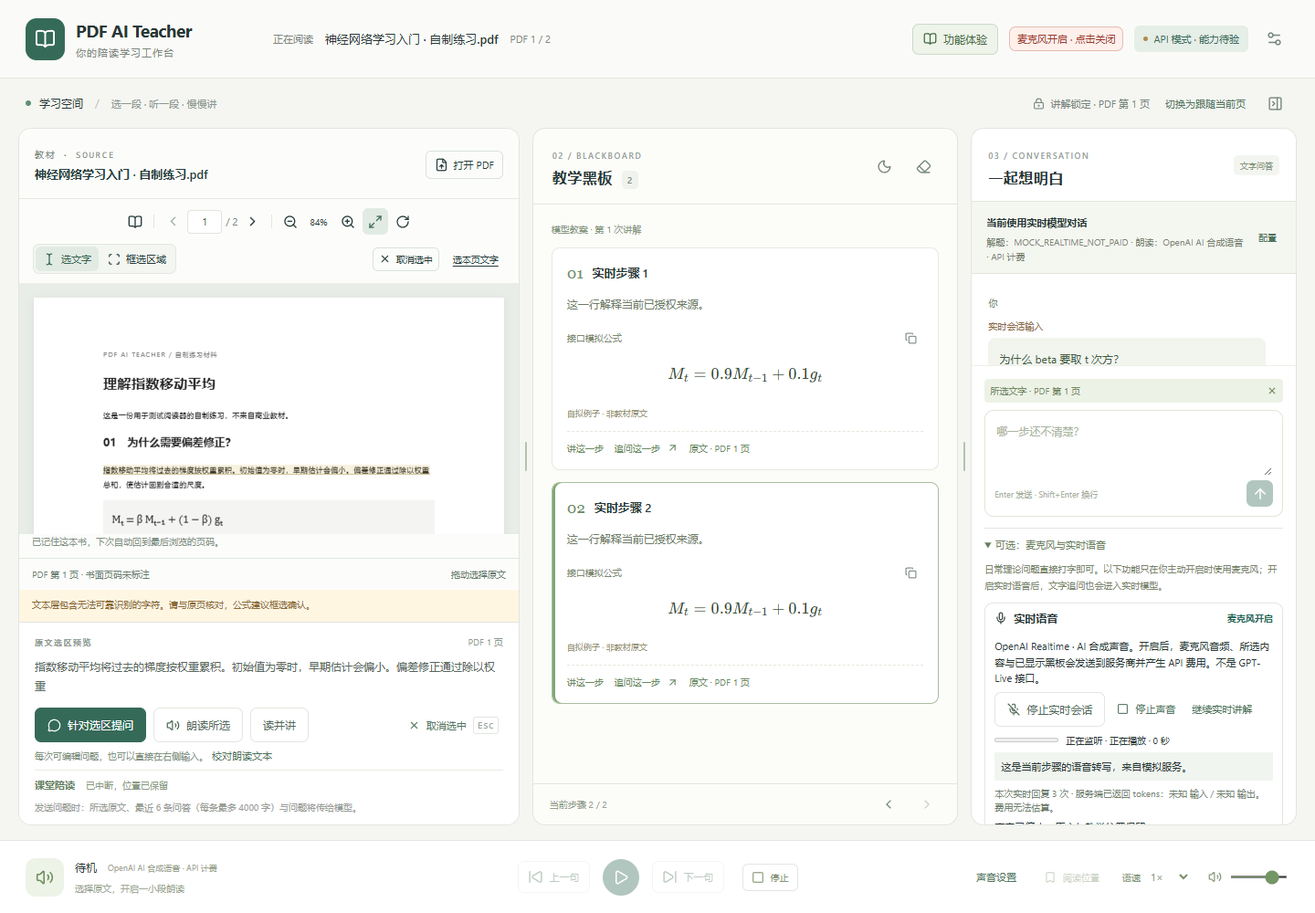
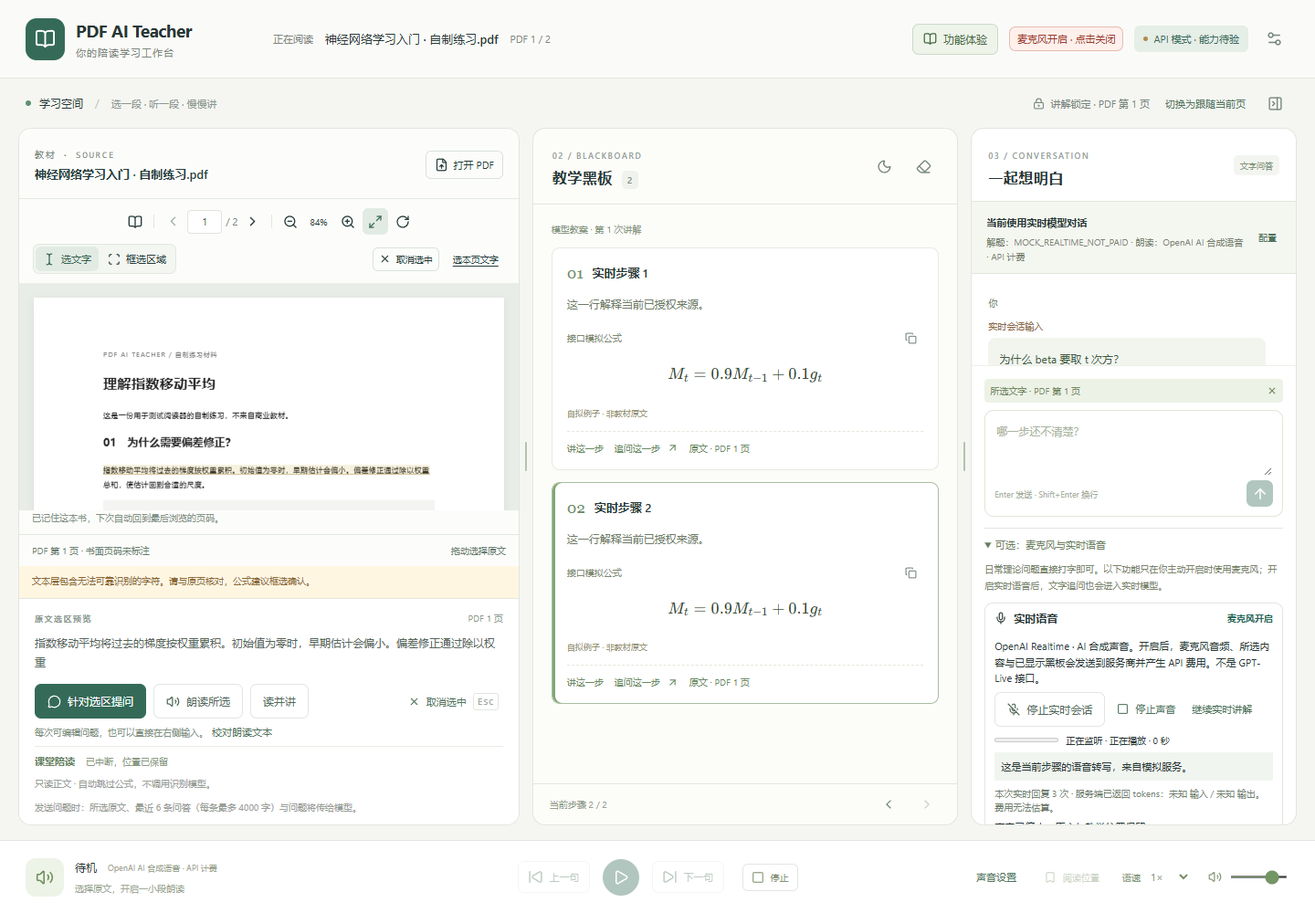
Default to prose reading and verify continuous desktop playback

Changed region(s): [[0.0, 0.558, 0.4062, 0.868]]

diff --git a/apps/web/src/App.tsx b/apps/web/src/App.tsx
@@ -1,4 +1,4 @@
-import { useCallback, useEffect, useRef, useState } from 'react';
+import { useCallback, useEffect, useMemo, useRef, useState } from 'react';
 import { flushSync } from 'react-dom';
 import { BookOpen, Settings2, LockKeyhole, ArrowUp, Play, Pause, Square, SkipBack, SkipForward, Volume2, X, Bookmark, PanelRightClose, MessageCircle, RefreshCw, NotebookPen } from 'lucide-react';
 import type { AppConfig, DocumentRecord, PdfTarget, TeachingStep, UsageRecord, Envelope } from '../../../packages/shared/protocol';
@@ -14,7 +14,7 @@ import SelectionQuestionDialog from './features/chat/SelectionQuestionDialog';
 import AnswerSpeechControls from './features/chat/AnswerSpeechControls';
 import Blackboard, { type BoardEntry } from './features/blackboard/Blackboard';
 import QwenSpeechStatus from './features/voice/QwenSpeechStatus';
-import { AudioCoordinator, requiresFormulaConfirmation, type AudioState } from './features/voice/AudioCoordinator';
+import { AudioCoordinator, type AudioState } from './features/voice/AudioCoordinator';
 
 import { ClassroomController, type ClassroomState, type LessonMode, type LessonUnit } from './features/classroom/ClassroomController';
 import ClassroomControls from './features/classroom/ClassroomControls';
@@ -26,7 +26,8 @@ import VoiceQuestionInput from './features/voice/VoiceQuestionInput';
 import { RealtimeController, initialRealtime, type RealtimeState } from './features/realtime/RealtimeController';
 import RealtimePanel from './features/realtime/RealtimePanel';
 import type { RealtimeContext } from './features/realtime/tools';
-import { textVersion } from './features/voice/sentences';
+import { textVersion, splitSourceSentences, toSpeechText } from './features/voice/sentences';
+import { prepareProseReading } from './features/voice/proseReading';
 import type { LearningRecord } from '../../../packages/shared/learning';
 import { loadRecord, saveRecord } from './features/library/storage';
 import { readRecovery, writeRecovery, clearRecovery } from './features/library/recovery';
@@ -145,7 +146,7 @@ export default function App() {
   useEffect(()=>{
     if(!config)return;
     const client=apiClient(config);
-    const controller=new AudioCoordinator({...(usesPlaybackRate(speechEngine(config))?{generatedSpeechRate:1}:{}),prefetchLocalSpeech:isLocalSpeechEngine(speechEngine(config)),requestSpeech:client.speech,onChange:setAudioState,onError:message=>{classroom.current?.interrupt();setError(message);},onComplete:event=>classroom.current?.onComplete(event)});
+    const controller=new AudioCoordinator({...(usesPlaybackRate(speechEngine(config))?{generatedSpeechRate:1}:{}),prefetchLocalSpeech:isLocalSpeechEngine(speechEngine(config)),prefetchSpeech:speechEngine(config)==='doubao',sourceReadingMode:'prose',requestSpeech:client.speech,onChange:setAudioState,onError:message=>{classroom.current?.interrupt();setError(message);},onComplete:event=>classroom.current?.onComplete(event)});
     audio.current=controller;controller.setRate(rateRef.current);controller.setVolume(volumeRef.current);setAudioState(controller.getSnapshot());
     return ()=>{controller.dispose();audio.current=null;};
   },[config]);
@@ -310,9 +311,10 @@ export default function App() {
   };
   useEffect(()=>{askRef.current=ask;});
   const readingTarget=effective&&correction?.sourceId===effective.sourceId?{...effective,sourceId:effective.sourceId.slice(0,135)+':corrected:'+textVersion(correction.text),blockId:effective.blockId.slice(0,135)+':corrected:'+textVersion(correction.text),sourceText:correction.text}:effective;
+  const proseReading=useMemo(()=>prepareProseReading(readingTarget?.sourceText??''),[readingTarget?.sourceText]);
   const read=async()=>{
-    if(!readingTarget?.sourceText.trim()){if(effective?.imageDataUrl){cancel();setError('');setCorrectionOpen(true);}else setError('请先选择原文或框选要识别的公式。');return;}
-    if(readingTarget&&requiresFormulaConfirmation(readingTarget.sourceText)){cancel();setError('');setCorrectionOpen(true);return;}
+    if(!readingTarget?.sourceText.trim()){cancel();setError(effective?.imageDataUrl?'这个框选区域没有可直接朗读的文字。请选择 PDF 文字；如需识图，可自行打开「校对朗读文本」。':'请先选择原文。');return;}
+    if(!splitSourceSentences(readingTarget.sourceText,'prose').length){cancel();setError('已跳过公式和难读内容，这个选区没有可朗读的正文。请选择包含正文的段落。');return;}
     if(!canPlaySpeech(config)){setError(speechUnavailableMessage(config));return;}
     cancel();setError('');setLocked(structuredClone(effective));
     classroom.current?.reset();audio.current?.load(readingTarget!,guard.current.current(),speechPlaybackMode(config));
@@ -337,6 +339,7 @@ export default function App() {
   };
   const applyReadingCorrection=(text:string,play=false)=>{
     if(!effective)return;
+    text=toSpeechText(text);
     cancel(true);classroom.current?.reset();audio.current?.reset();setCorrection({sourceId:effective.sourceId,text});setCorrectionOpen(false);setError('');
     if(!play)return;
     if(!canPlaySpeech(config)){setError(speechUnavailableMessage(config));return;}
@@ -355,7 +358,7 @@ export default function App() {
     if(!readingTarget?.sourceText.trim()||!config){setError('请先选择原文。');return;}
     if(!canPlaySpeech(config)){setError(speechUnavailableMessage(config));return;}
     if(mode!=='read'&&config.mode==='unconfigured'){setError('解题模型尚未配置。可以选择「只朗读」，使用免费本地声音。');return;}
-    if(requiresFormulaConfirmation(readingTarget.sourceText)){cancel();setError('');setCorrectionOpen(true);return;}
+    if(mode==='read'&&!splitSourceSentences(readingTarget.sourceText,'prose').length){cancel();setError('已跳过公式和难读内容，这个选区没有可朗读的正文。');return;}
     setError('');setLocked(structuredClone(readingTarget));audio.current?.setRate(rate);audio.current?.setVolume(volume);
     try{await classroom.current?.start(readingTarget,mode,lessonUnit);}catch(error){setError((error as Error).message);}
   };
@@ -374,12 +377,12 @@ export default function App() {
     setNote(record.note);setLessonMode(record.preferences.mode);setLessonUnit(record.preferences.unit);setAutoResume(record.preferences.autoResume);
     setNavigation({pageIndex:record.pageIndex,rect:record.target?.pageIndex===record.pageIndex?record.target.rect??undefined:undefined,nonce:Date.now()});
     currentPage.current=record.pageIndex;setPageIndex(record.pageIndex);
-    if(record.readingBookmark)audio.current?.restoreBookmark(record.readingBookmark,guard.current.current(),speechPlaybackMode(configRef.current));
+    const bookmarkRestored=!record.readingBookmark||audio.current?.restoreBookmark(record.readingBookmark,guard.current.current(),speechPlaybackMode(configRef.current));
     if(record.teachingProgress){
       const progress=record.teachingProgress;const entry=record.entries.find(value=>value.id===progress.entryId);
       classroom.current?.restoreProgress(progress,entry??null);
     }else classroom.current?.reset();
-    setStorageNotice('已恢复本书记录。声音保持停止，核对后可手动继续。');
+    setStorageNotice(bookmarkRestored?'已恢复本书记录。声音保持停止，核对后可手动继续。':'书和页码已恢复。朗读规则已更新为跳过公式；旧句位置未沿用，可点「朗读所选」从选段开头开始。');
   },[clearSelection]);
   useEffect(()=>{
     if(!documentRecord||!config)return;
@@ -428,7 +431,7 @@ export default function App() {
     {error&&<div className="error-banner" role="alert"><span>{error}</span><div>{!config&&<button onClick={()=>void connect()}><RefreshCw size={14}/>重新连接</button>}<button aria-label="关闭提示" onClick={()=>setError('')}><X size={16}/></button></div></div>}
     {practice&&<PracticeCoach key={practiceSession} target={readingTarget} audio={audioState} hasDocument={!!documentRecord} loading={!!documentRecord&&recordReady!==documentRecord.documentId} demo={config?.mode==='demo'} speechEngine={audioEngine} onChoose={()=>setReaderAction({type:'select-excerpt',nonce:Date.now()})} onRead={()=>void read()} onPause={()=>audio.current?.pause()} onResume={()=>void resume()} onClose={()=>setPractice(false)} onMore={()=>{setPractice(false);setFeatureGuide(true);}}/>}
     <main inert={!!documentRecord&&recordReady!==documentRecord.documentId} aria-busy={!!documentRecord&&recordReady!==documentRecord.documentId} ref={workspace} style={chatVisible?{gridTemplateColumns:`minmax(300px,${columns[0]}fr) minmax(310px,${columns[1]}fr) minmax(270px,${100-columns[0]-columns[1]}fr)`}:undefined} className={`workspace ${!chatVisible?'chat-collapsed':''}`}>
-      <section className="reader-panel panel" aria-label="PDF 阅读区"><PdfReader onImageCapture={handleCapture} restoreReading={restoreReading} action={readerAction} clearSelectionRevision={clearSelectionRevision} onClearSelection={clearSelection} onDocument={handleDocument} onTarget={handleTarget} onPage={handlePage} onError={setError} navigation={navigation} readingText={audioState?.channel==='source'&&audioState.status==='speaking'&&audioState.cursor?.pageIndex===pageIndex&&audioState.cursor?.documentId===documentRecord?.documentId?currentSentence?.sourceText:undefined}/><div className="selection-tray"><div className="selection-title"><span className="eyebrow">{boardTarget?'已选板书步骤':effective?.imageDataUrl?'公式区域预览':effective?'原文选区预览':'你的阅读目标'}</span>{effective&&<span>PDF {effective.pageIndex+1} 页{effective.pageLabel?` · 书面 ${effective.pageLabel}`:''}</span>}</div>{effective?.imageDataUrl?<img className="crop-preview" src={effective.imageDataUrl} alt="即将发送的公式截图"/>:<p className="selection-preview">{boardTarget?.text??effective?.sourceText??'用鼠标选择 PDF 文字，或框选一个想弄懂的公式。'}</p>}<div className="selection-actions"><button className="primary-button" disabled={!effective||busy} onClick={()=>{cancel();setQuestionDialog(true);}}><MessageCircle size={15}/>针对选区提问</button><button className="secondary-button" disabled={!effective?.sourceText&&!effective?.imageDataUrl} onClick={()=>void read()}><Volume2 size={15}/>朗读所选</button><button className="secondary-button" disabled={!readingTarget?.sourceText||busy} onClick={()=>directLesson('read-explain')}>读并讲</button>{effective&&<button className="text-button clear-selection-button" title="清除选区与提问目标（Esc），保留阅读书签" onClick={clearSelection}><X size={13}/>取消选中 <kbd>Esc</kbd></button>}</div><p className="selection-question-hint">每次可编辑问题，也可以直接在右侧输入。{(effective?.sourceText||effective?.imageDataUrl)&&<button className="text-button" onClick={()=>{cancel();setCorrectionOpen(true);}}>校对朗读文本</button>}{correction&&<span> · 使用已校对版本</span>}</p><ClassroomControls openNonce={classroomOpen} state={lesson} mode={lessonMode} unit={lessonUnit} disabled={!readingTarget?.sourceText||busy} onMode={value=>{cancel();classroom.current?.reset();setLessonMode(value);}} onUnit={value=>{cancel();classroom.current?.reset();setLessonUnit(value);}} onStart={()=>void startLesson()} onContinue={()=>void classroom.current?.continue().catch(error=>setError(error.message))} onStop={()=>{cancel();classroom.current?.reset();}}/>{readingTarget?.sourceText&&requiresFormulaConfirmation(readingTarget.sourceText)&&<button className="text-button formula-confirm" onClick={()=>{cancel();setCorrectionOpen(true);}}>公式读法需要校对</button>}<p className="privacy-hint">{config?.mode==='demo'?(audioEngine==='doubao'?'演示问答不调用解题模型；主动朗读会将所选文字发给火山引擎豆包语音。':audioEngine==='openai'?'演示问答不调用解题模型；主动朗读会将所选文字发给 OpenAI。':'演示问答：内容留在本机，不调用在线模型。'):effective?.imageDataUrl?'发送问题时：此截图与问题将传给配置的模型服务。':'发送问题时：所选原文、最近 6 条问答（每条最多 4000 字）与问题将传给模型。'}</p></div></section>
+      <section className="reader-panel panel" aria-label="PDF 阅读区"><PdfReader onImageCapture={handleCapture} restoreReading={restoreReading} action={readerAction} clearSelectionRevision={clearSelectionRevision} onClearSelection={clearSelection} onDocument={handleDocument} onTarget={handleTarget} onPage={handlePage} onError={setError} navigation={navigation} readingText={audioState?.channel==='source'&&audioState.status==='speaking'&&audioState.cursor?.pageIndex===pageIndex&&audioState.cursor?.documentId===documentRecord?.documentId?currentSentence?.sourceText:undefined}/><div className="selection-tray"><div className="selection-title"><span className="eyebrow">{boardTarget?'已选板书步骤':effective?.imageDataUrl?'公式区域预览':effective?'原文选区预览':'你的阅读目标'}</span>{effective&&<span>PDF {effective.pageIndex+1} 页{effective.pageLabel?` · 书面 ${effective.pageLabel}`:''}</span>}</div>{effective?.imageDataUrl?<img className="crop-preview" src={effective.imageDataUrl} alt="即将发送的公式截图"/>:<p className="selection-preview">{boardTarget?.text??effective?.sourceText??'用鼠标选择 PDF 文字，或框选一个想弄懂的公式。'}</p>}<div className="selection-actions"><button className="primary-button" disabled={!effective||busy} onClick={()=>{cancel();setQuestionDialog(true);}}><MessageCircle size={15}/>针对选区提问</button><button className="secondary-button" disabled={!effective?.sourceText&&!effective?.imageDataUrl} onClick={()=>void read()}><Volume2 size={15}/>朗读所选</button><button className="secondary-button" disabled={!readingTarget?.sourceText||busy} onClick={()=>directLesson('read-explain')}>读并讲</button>{effective&&<button className="text-button clear-selection-button" title="清除选区与提问目标（Esc），保留阅读书签" onClick={clearSelection}><X size={13}/>取消选中 <kbd>Esc</kbd></button>}</div><p className="selection-question-hint">每次可编辑问题，也可以直接在右侧输入。{(effective?.sourceText||effective?.imageDataUrl)&&<button className="text-button" onClick={()=>{cancel();setCorrectionOpen(true);}}>校对朗读文本</button>}{correction&&<span> · 使用已校对版本</span>}</p><ClassroomControls openNonce={classroomOpen} state={lesson} mode={lessonMode} unit={lessonUnit} disabled={!readingTarget?.sourceText||busy} onMode={value=>{cancel();classroom.current?.reset();setLessonMode(value);}} onUnit={value=>{cancel();classroom.current?.reset();setLessonUnit(value);}} onStart={()=>void startLesson()} onContinue={()=>void classroom.current?.continue().catch(error=>setError(error.message))} onStop={()=>{cancel();classroom.current?.reset();}}/>{readingTarget?.sourceText&&<p className="privacy-hint" data-testid="prose-reading-notice">只读正文 · 自动跳过公式，不调用识别模型。{proseReading.skippedCount>0&&` 本选区将跳过 ${proseReading.skippedCount} 处检测到的公式或难读内容，原文保留。`}</p>}<p className="privacy-hint">{config?.mode==='demo'?(audioEngine==='doubao'?'演示问答不调用解题模型；主动朗读会将所选文字发给火山引擎豆包语音。':audioEngine==='openai'?'演示问答不调用解题模型；主动朗读会将所选文字发给 OpenAI。':'演示问答：内容留在本机，不调用在线模型。'):effective?.imageDataUrl?'发送问题时：此截图与问题将传给配置的模型服务。':'发送问题时：所选原文、最近 6 条问答（每条最多 4000 字）与问题将传给模型。'}</p></div></section>
       <Blackboard revealLimits={realtimeReveal} activeEntryId={activeEntryId} revealThrough={lesson?.entry?{entryId:lesson.entry.id,index:lesson.stepIndex}:null} onSpeak={speakStep} entries={boardHidden?[]:entries} active={activeStep} setActive={setActiveStep} dark={dark} setDark={setDark} onSelect={selectBoard} onSource={(id,entry)=>{const source=entry.context.sources.find(s=>s.sourceId===id);if(source)setNavigation({pageIndex:source.pageIndex,rect:source.rect??undefined,nonce:Date.now()});}} onClear={()=>{cancel();setBoardHidden(true);setBoardTarget(null);}}/>
       {chatVisible&&<section className="chat-panel panel" aria-label="学习对话"><div className="panel-heading"><div><span className="eyebrow">03 / CONVERSATION</span><h2>一起想明白</h2></div><span className="chat-status">{busy?'正在解答':'文字问答'}</span></div><div className="teaching-route"><div><strong>{realtimeState.mode==='live'&&realtimeState.connection==='connected'?'当前使用实时模型对话':'打字提问 · 看推导 · 听讲解'}</strong><span>解题：{config?.mode==='demo'?'固定演示，AI 未连接':(realtimeState.mode==='live'&&realtimeState.connection==='connected'?config?.models.realtime:effective?.imageDataUrl?config?.models.vision:config?.models.chat)||'未配置'} · 朗读：{voiceLabel}</span></div><button className="text-button" onClick={()=>setSettings(true)}>配置</button></div><div className="conversation-scroll">{!messages.length&&<div className="chat-welcome"><div className="teacher-avatar"><BookOpen size={21}/></div><h3>把不懂的地方，打字问清楚</h3><p>选中教材后输入你的问题。解题模型负责理论、推导和讲解稿；语音模型负责把讲解读给你听。</p><button className="secondary-button welcome-trial" onClick={()=>setFeatureGuide(true)}>带我试用功能</button>{config?.mode==='demo'&&<div className="demo-notice">解题 AI 尚未连接：{isLocalSpeechEngine(audioEngine)?'本地 AI 朗读独立可用，模型就绪后即可免费听书。':'朗读、暂停和续读按所选声音设置使用。'}提问只展示固定教案，连接解题模型后才会理解你的教材。</div>}<span className="small-label">你可以这样问</span><div className="prompt-list">{['这一步为什么成立？','解释每个符号的含义','用一个小数字举例'].map(p=><button key={p} onClick={()=>setQuestion(p)}>{p}<ArrowUp size={13}/></button>)}</div></div>}{messages.map(m=><div className={`message ${m.role}`} key={m.id}><div className="message-label">{m.role==='user'?'你':m.demo?'演示讲解 · 非真实 AI':'AI 老师'}</div>{m.delivery&&<span className="message-delivery">{m.delivery==='spoken'?'实时语音 · 播放完成':m.delivery==='interrupted'?'实时语音已打断 · 转写可能含未播放内容':m.delivery==='unconfirmed'?'实时语音播放未确认':'实时会话输入'}</span>}<p>{m.text}</p>{m.role==='assistant'&&!m.delivery&&entries.find(entry=>entry.id===m.id)&&<AnswerSpeechControls entry={entries.find(entry=>entry.id===m.id)!} lesson={lesson} available={speechAvailable} speechEngine={audioEngine} onListen={()=>{const entry=entries.find(item=>item.id===m.id);if(entry?.plan.steps[0])speakStep(entry.plan.steps[0],entry,0,true);}} onContinue={()=>void classroom.current?.continue().catch(error=>setError(error.message))}/>}</div>)}{busy&&<div className="thinking" role="status"><span className="green-dot"/>正在核对条件、推导并整理板书…<button onClick={()=>cancel()}>取消</button></div>}</div><div className="composer-area">{effective&&<div className="target-chip"><span>{boardTarget?'已选板书':effective.imageDataUrl?'框选区域':'所选文字'} · PDF 第 {effective.pageIndex+1} 页</span><button aria-label="取消提问目标" onClick={clearSelection}><X size={12}/></button></div>}<div className="composer"><textarea aria-label="输入文字问题" placeholder="哪一步还不清楚？" value={question} maxLength={2000} onChange={e=>{cancel();setQuestion(e.target.value);}} onKeyDown={e=>{if(e.key==='Enter'&&!e.shiftKey&&!e.nativeEvent.isComposing){e.preventDefault();void ask();}}}/><div className="composer-bottom"><span>Enter 发送 · Shift+Enter 换行</span><button aria-label="发送问题" disabled={!question.trim()||busy} onClick={()=>void ask()}><ArrowUp size={18}/></button></div></div><details className="optional-voice" ref={optionalVoice}><summary>可选：麦克风与实时语音</summary><p>日常理论问题直接打字即可。以下功能只在你主动开启时使用麦克风；开启实时语音后，文字追问也会进入实时模型。</p><RealtimePanel openNonce={realtimeOpen} state={realtimeState} config={config} hasTarget={!!effective} onStart={mode=>{setVoiceRevision(value=>value+1);void realtime.current?.start(mode);}} onStop={()=>realtime.current?.stop()} onInterrupt={()=>{realtime.current?.interrupt();audio.current?.pause();}} onContinue={()=>void realtime.current?.continueTeaching().catch(error=>setError(error.message))}/><VoiceQuestionInput config={config} onStart={()=>{realtime.current?.stop();cancel(false,false,true);return guard.current.current();}} onTranscript={(text,envelope)=>{if(guard.current.accepts(envelope)){setQuestion(text);setError('');}}} onError={setError} resetRevision={voiceRevision} disabled={!effective}/></details><details className="notes"><summary><NotebookPen size={13}/>本书本地笔记</summary><textarea aria-label="本书本地笔记" value={note} disabled={!documentRecord||recordReady!==documentRecord.documentId} onChange={e=>saveNote(e.target.value)} placeholder={desktopBridge?'只保存在本机软件内，不发送给模型':'只保存在当前浏览器，不发送给模型'}/></details></div></section>}
       {chatVisible&&<><div className="column-handle first" style={{left:`calc((100% - 28px) * ${columns[0]/100} + 7px)`}} role="separator" aria-label="调整阅读器宽度" aria-orientation="vertical" tabIndex={0} onKeyDown={e=>{if(e.key==="ArrowLeft"||e.key==="ArrowRight")setColumns([Math.max(28,Math.min(48,columns[0]+(e.key==="ArrowRight"?1:-1))),columns[1]]);}} onPointerDown={e=>{e.preventDefault();resizeColumn(0,e.clientX);}}/><div className="column-handle second" style={{left:`calc((100% - 28px) * ${(columns[0]+columns[1])/100} + 21px)`}} role="separator" aria-label="调整黑板宽度" aria-orientation="vertical" tabIndex={0} onKeyDown={e=>{if(e.key==="ArrowLeft"||e.key==="ArrowRight")setColumns([columns[0],Math.max(25,Math.min(43,columns[1]+(e.key==="ArrowRight"?1:-1)))]);}} onPointerDown={e=>{e.preventDefault();resizeColumn(1,e.clientX);}}/></>}    </main>

diff --git a/apps/web/src/features/classroom/ReadingCorrectionDialog.tsx b/apps/web/src/features/classroom/ReadingCorrectionDialog.tsx
@@ -5,7 +5,7 @@ export type ReadingRecognition = { readingText: string; uncertain: boolean; warn
 export default function ReadingCorrectionDialog({sourceText,onSave,onClose,onRecognize,onConfigure,recognitionModel,imageOnly=false}:{imageOnly?:boolean;sourceText:string;onSave:(text:string,play?:boolean)=>void;onClose:()=>void;onRecognize?:(text:string,signal:AbortSignal)=>Promise<ReadingRecognition>;onConfigure?:()=>void;recognitionModel?:string}){
   const dialog=useRef<HTMLDialogElement>(null);const [text,setText]=useState(sourceText);
   const [busy,setBusy]=useState(false);const [message,setMessage]=useState('');const [uncertain,setUncertain]=useState(false);const [recognized,setRecognized]=useState(false);
-  const task=useRef<AbortController|null>(null);const initial=useRef({sourceText,onRecognize,imageOnly});
+  const task=useRef<AbortController|null>(null);
   useEffect(()=>{dialog.current?.showModal();return()=>task.current?.abort();},[]);
   const recognize=async(input:string,recognizer=onRecognize)=>{
     if(!recognizer||task.current)return;
@@ -18,18 +18,13 @@ export default function ReadingCorrectionDialog({sourceText,onSave,onClose,onRec
     }catch(error){if(!controller.signal.aborted)setMessage((error as Error).message);}
     finally{if(task.current===controller){task.current=null;setBusy(false);}}
   };
-  // Start once for an unresolved original selection, never for every edit or render.
-  useEffect(()=>{
-    let active=true;
-    queueMicrotask(()=>{if(active&&(initial.current.imageOnly||requiresFormulaConfirmation(initial.current.sourceText)))void recognize(initial.current.sourceText,initial.current.onRecognize);});
-    return()=>{active=false;};
-  },[]);
   const needsReview=requiresFormulaConfirmation(text);
   const speech=splitSentences(text).map(sentence=>sentence.speechText).join('\n');
   const canSave=!!text.trim()&&!needsReview&&!uncertain&&!busy;
   return <dialog ref={dialog} className="selection-question-dialog reading-correction-dialog" aria-label="校对朗读文本" onCancel={event=>{event.preventDefault();onClose();}}>
     <div className="panel-heading"><h2>原文与公式读法</h2><button className="icon-button" aria-label="关闭朗读校对" onClick={onClose}><X size={18}/></button></div>
-    <p className="question-mode-note">常见公式会自动转换。遇到提取乱码或复杂公式，AI 可结合原页选区识别并生成中文读法；无需逐个手改。只发送所选文字与选区截图，使用当前解题账号的额度，PDF 原文件保持原样。</p>
+    <p className="question-mode-note">默认朗读会跳过公式，直接读正文，不等待 AI。这里是可选的完整读法校对；只有点击「AI 自动识别读法」才会发送所选文字与截图，使用解题账号额度。PDF 原文件保持原样。</p>
+    {imageOnly&&<p className="reading-assist-message">当前选区只有图片；如需朗读其中的文字，请主动识别或输入读法。</p>}
     <div className="reading-assist-actions"><button className="secondary-button" disabled={!onRecognize||busy} onClick={()=>void recognize(text)}>{busy?'正在自动识别…':'AI 自动识别读法'}</button>{onRecognize?<small>识别模型：{recognitionModel}</small>:<span>连接解题模型后可自动识别。<button className="text-button" onClick={onConfigure}>配置 GPT</button></span>}</div>
     {message&&<p className="reading-assist-message" role="status">{message}</p>}
     <label className="question-label" htmlFor="reading-correction">确认后的朗读文本</label><textarea id="reading-correction" maxLength={12000} disabled={busy} value={text} onChange={event=>{setText(event.target.value);setUncertain(false);setRecognized(false);}}/>

diff --git a/tests/unit/classroom.test.ts b/tests/unit/classroom.test.ts
@@ -8,7 +8,7 @@ const entry:BoardEntry={id:'lesson',mode:'demo',context:{documentId:'doc',source
 function setup(generate=vi.fn(async()=>entry)){
   let envelope:Envelope={sessionId:'s',generationId:0,contextRevision:0};
   const events:string[]=[];
-  const audio={load:vi.fn(()=>events.push('source')),play:vi.fn(async()=>{events.push('play');}),loadExplanation:vi.fn(()=>events.push('explanation')),getSnapshot:vi.fn(()=>({channel:'explanation',teachingStepId:'one',hasBookmark:true})),getBookmark:vi.fn(()=>null),getExplanationBookmark:vi.fn(()=>null),rebind:vi.fn(),resume:vi.fn(async()=>{}),resumeSource:vi.fn(async()=>{})};
+  const audio={load:vi.fn(()=>events.push('source')),play:vi.fn(async()=>{events.push('play');}),loadExplanation:vi.fn(()=>events.push('explanation')),getSnapshot:vi.fn(()=>({channel:'explanation',teachingStepId:'one',hasBookmark:true,sentences:[{sentenceId:'one',sourceText:'原文',speechText:'原文'}]})),getBookmark:vi.fn(()=>null),getExplanationBookmark:vi.fn(()=>null),rebind:vi.fn(),resume:vi.fn(async()=>{}),resumeSource:vi.fn(async()=>{})};
   const controller=new ClassroomController({audio:()=>audio as unknown as AudioCoordinator,begin:()=>({envelope:envelope={...envelope,generationId:envelope.generationId+1},mode:'demo'}),generate,showStep:()=>events.push('board'),onChange:()=>{},onError:()=>{}});
   return {controller,audio,generate,events,envelope:()=>envelope};
 }
@@ -44,4 +44,39 @@ it('重复stepId但speechText不同不得复活旧讲解',async()=>{
   audio.getExplanationBookmark.mockImplementation(()=>old as never);
   controller.restore(entry,0,[]);await controller.continue();
   expect(audio.resume).not.toHaveBeenCalled();expect(audio.loadExplanation).toHaveBeenCalled();
+});
+
+
+it('公式全部跳过时只朗读进入等待，不启动空音频或问答',async()=>{
+  const {controller,audio,generate}=setup();
+  audio.getSnapshot.mockReturnValue({channel:'source',teachingStepId:null,hasBookmark:false,sentences:[]} as never);
+  await controller.start({...target,sourceText:'$x=y$'},'read','selection');
+  expect(controller.getSnapshot().phase).toBe('waiting');
+  expect(audio.play).not.toHaveBeenCalled();expect(generate).not.toHaveBeenCalled();
+});
+
+it('读并讲的纯公式单元略过声音，仍以原始公式请求讲解',async()=>{
+  const {controller,audio,generate}=setup();
+  audio.getSnapshot.mockReturnValue({channel:'source',teachingStepId:null,hasBookmark:false,sentences:[]} as never);
+  const formula={...target,sourceText:'$x=y$'};
+  await controller.start(formula,'read-explain','selection');
+  expect((generate.mock.calls as unknown as [PdfTarget][])[0][0].sourceText).toBe(formula.sourceText);
+  expect(audio.loadExplanation).toHaveBeenCalledTimes(1);
+  expect(audio.play).toHaveBeenCalledTimes(1);
+});
+
+
+it.each(['read','read-explain'] as const)('restoring an interrupted formula-only %s unit skips empty playback',async(mode)=>{
+  const {controller,audio,generate}=setup();
+  audio.getSnapshot.mockReturnValue({channel:'source',teachingStepId:null,hasBookmark:false,sentences:[]} as never);
+  const formula={...target,sourceText:'$x=y$'};
+  controller.restoreProgress({entryId:null,stepIndex:0,completedStepIds:[],interrupted:true,units:[formula],unitIndex:0,mode,phase:'reading'},null);
+  await controller.continue();
+  if(mode==='read'){
+    expect(controller.getSnapshot().phase).toBe('waiting');
+    expect(audio.play).not.toHaveBeenCalled();expect(generate).not.toHaveBeenCalled();
+  }else{
+    expect((generate.mock.calls as unknown as [PdfTarget][])[0][0].sourceText).toBe(formula.sourceText);
+    expect(audio.loadExplanation).toHaveBeenCalledTimes(1);expect(audio.play).toHaveBeenCalledTimes(1);
+  }
 });

diff --git a/tests/unit/prose-sentences.test.ts b/tests/unit/prose-sentences.test.ts
@@ -1,0 +1,37 @@
+import { describe, expect, it } from 'vitest';
+import { splitSentences, splitSourceSentences, sourceTextVersion, textVersion } from '../../apps/web/src/features/voice/sentences';
+
+describe('source prose projection and cursor identity', () => {
+  it('keeps raw subtitle and year/wrap pronunciation, removes inline formulas without model use', () => {
+    const text = '在2026年，模型\\n学会了表达。式子为 $x=y$，这是映射。'.replace('\\n','\n');
+    const sentences = splitSourceSentences(text, 'prose');
+    expect(sentences.map(s => s.sourceText).join('')).toBe(text);
+    const speech = sentences.map(s => s.speechText).join('');
+    expect(speech).toContain('二零二六年');
+    expect(speech).toContain('模型学会了表达');
+    expect(speech).toContain('这是映射');
+    expect(speech).not.toContain('x=y');
+    expect(sentences.every(s => s.sentenceId.startsWith('prose-v1-'))).toBe(true);
+  });
+  it('skips a display-only sentence but retains original identifiers for later prose', () => {
+    const source = '先看概念。\n$$x=y$$\n再看直觉。';
+    const prose = splitSourceSentences(source, 'prose');
+    expect(prose).toHaveLength(2);
+    expect(prose[1].sourceText).toContain('再看直觉');
+    const original = splitSentences(source).find(s => s.sourceText.includes('再看直觉'))!;
+    expect(prose[1].sentenceId).toBe('prose-v1-' + original.sentenceId);
+  });
+  it('a long explicit formula cannot leak when a source chunk boundary falls within it', () => {
+    const source = '前文。$$' + 'a+'.repeat(350) + 'b$$后文。';
+    const prose = splitSourceSentences(source, 'prose');
+    expect(prose.map(s => s.speechText).join('')).toBe('前文。后文。');
+    expect(prose.map(s => s.speechText).join('')).not.toContain('a');
+  });
+  it('strict capability stays available and policy changes invalidate old bookmarks', () => {
+    const source = '值为 $x=y$。';
+    expect(splitSourceSentences(source)).toEqual(splitSentences(source));
+    expect(sourceTextVersion(source)).toBe(textVersion(source));
+    expect(sourceTextVersion(source, 'prose')).not.toBe(textVersion(source));
+    expect(splitSourceSentences('$$x=y$$','prose')).toEqual([]);
+  });
+});

diff --git a/tests/unit/learning.test.ts b/tests/unit/learning.test.ts
@@ -2,7 +2,7 @@ import { describe, expect, it } from 'vitest';
 import { LEARNING_FORMAT, MAX_RECORD_BYTES, type LearningRecord } from '../../packages/shared/learning';
 import { exportRecord, importRecord, markdownExport, validateRecord } from '../../apps/web/src/features/library/records';
 import { loadRecord, saveRecord } from '../../apps/web/src/features/library/storage';
-import { splitSentences, textVersion } from '../../apps/web/src/features/voice/sentences';
+import { splitSentences, textVersion, splitSourceSentences, sourceTextVersion } from '../../apps/web/src/features/voice/sentences';
 import { makeDemoPlan } from '../../apps/server/src/demo';
 import type { PdfTarget } from '../../packages/shared/protocol';
 
@@ -181,4 +181,23 @@ describe('versioned learning record import/export', () => {
     await expect(loadRecord(record.document)).rejects.toThrow('请先导出');
     expect(record.note).toBe('记住偏差修正。');
   });
+});
+
+
+it('round-trips prose bookmarks after skipped formula sentences without shifting their original source',()=>{
+  const record=fixture();const target=record.target!;
+  target.sourceText='先读正文。\n$$x=y$$\n最后读正文。';
+  const sentences=splitSourceSentences(target.sourceText,'prose');
+  record.readingBookmark!.cursor={documentId,pageIndex:target.pageIndex,blockId:target.blockId,sentenceIndex:1,sentenceId:sentences[1].sentenceId,textVersion:sourceTextVersion(target.sourceText,'prose')};
+  const restored=importRecord(exportRecord(record));
+  expect(restored.readingBookmark).toEqual(record.readingBookmark);
+  expect(restored.readingBookmark!.target.sourceText).toContain('$$x=y$$');
+  restored.readingBookmark!.cursor.sentenceIndex=2;
+  expect(()=>validateRecord(restored)).toThrow('阅读书签');
+});
+
+it('does not accept prose sentence ids under a strict reading version',()=>{
+  const record=fixture();const target=record.target!;
+  record.readingBookmark!.cursor.sentenceId=splitSourceSentences(target.sourceText,'prose')[1].sentenceId;
+  expect(()=>validateRecord(record)).toThrow('阅读书签');
 });

diff --git a/apps/web/src/features/settings/DesktopSettingsPanel.tsx b/apps/web/src/features/settings/DesktopSettingsPanel.tsx
@@ -130,7 +130,7 @@ export default function DesktopSettingsPanel({ bridge, onChange, onBeforeAccount
           </fieldset>
           <label>豆包中文音色<select aria-label="豆包中文音色" value={draft.doubaoTtsVoice ?? DEFAULT_DOUBAO_TTS_VOICE} onChange={event => update('doubaoTtsVoice', event.target.value)}>{DOUBAO_TTS_VOICES.map(voice => <option key={voice.id} value={voice.id}>{voice.name}</option>)}</select></label>
           <label>豆包朗读语气<textarea aria-label="豆包朗读语气" value={draft.doubaoTtsInstructions ?? DEFAULT_DOUBAO_TTS_INSTRUCTIONS} onChange={event => update('doubaoTtsInstructions', event.target.value)} rows={3} maxLength={1000} placeholder="自然稳定地朗读，按语义停顿，不增改原文。"/></label>
-          <p className="desktop-setting-note">可以先保存声音选项，稍后再填写 Key；保存设置不会请求语音。确认额度并「应用并重启」后，再选一小段原文点「朗读所选」试听。声音合成完成后播放，播放中可原位调速。</p>
+          <p className="desktop-setting-note">可以先保存声音选项，稍后再填写 Key；保存设置不会请求语音。确认额度并「应用并重启」后，再选一小段原文点「朗读所选」试听。播放中可原位调速，并提前准备下一句来减少等待。停止会取消准备；最多可能有一句已生成但尚未听到的内容使用了额度。</p>
         </div>}
         {draft.ttsEngine === 'system' && <p>系统基本语音：免费，使用 Windows / 浏览器已有声音，音色和自然度受本机系统限制。不会向 OpenAI 请求语音。</p>}
         {draft.ttsEngine === 'openai' && <p>OpenAI AI 合成语音使用独立 API Key 和 API 额度；ChatGPT 登录不包含本应用的 TTS 授权。只有你主动朗读时才请求语音，真实听感需试听。</p>}

diff --git a/apps/web/src/features/library/records.ts b/apps/web/src/features/library/records.ts
@@ -1,6 +1,6 @@
 import { LearningRecordSchema, MAX_RECORD_BYTES, type LearningRecord } from '../../../../../packages/shared/learning';
 import { validatePlan, type DocumentRecord, type SourceRef } from '../../../../../packages/shared/protocol';
-import { splitSentences, textVersion } from '../voice/sentences';
+import { splitSourceSentences, sourceTextVersion } from '../voice/sentences';
 
 /** Existing protocol schemas strip unknown fields; imports must reject them instead. */
 function rejectUnknownProperties(input: unknown, parsed: unknown): void {
@@ -65,8 +65,9 @@ function validateRecordContent(value: unknown, expectedDocument?: DocumentRecord
   if (record.readingBookmark) {
     const { target, cursor } = record.readingBookmark;
     source(target);
-    const sentences = splitSentences(target.sourceText);
-    if (cursor.documentId !== target.documentId || cursor.pageIndex !== target.pageIndex || cursor.blockId !== target.blockId || cursor.textVersion !== textVersion(target.sourceText) || sentences[cursor.sentenceIndex]?.sentenceId !== cursor.sentenceId) fail('阅读书签的文本版本或句子位置已失效，不能跳过未读内容。');
+    const mode = cursor.textVersion.startsWith('prose-v1-') ? 'prose' : 'strict';
+    const sentences = splitSourceSentences(target.sourceText, mode);
+    if (cursor.documentId !== target.documentId || cursor.pageIndex !== target.pageIndex || cursor.blockId !== target.blockId || cursor.textVersion !== sourceTextVersion(target.sourceText, mode) || sentences[cursor.sentenceIndex]?.sentenceId !== cursor.sentenceId) fail('阅读书签的文本版本或句子位置已失效，不能跳过未读内容。');
   }
   const progress = record.teachingProgress;
   if (progress) {

diff --git a/apps/web/src/features/voice/sentences.ts b/apps/web/src/features/voice/sentences.ts
@@ -1,3 +1,4 @@
+import { prepareProseReading, omitProseRanges } from './proseReading';
 import type { Sentence } from '../../../../../packages/shared/protocol';
 import { mathToSpeech, UNICODE_SCRIPT_MARKERS } from './mathSpeech';
 
@@ -229,4 +230,25 @@ export function splitSentences(sourceText: string): Sentence[] {
     sourceText: source,
     speechText: toSpeechText(source),
   }));
+}
+
+
+export type SourceReadingMode = 'strict' | 'prose';
+/** Reading policy is part of the cursor identity, so old formula anchors cannot drift. */
+export function sourceTextVersion(text: string, mode: SourceReadingMode = 'strict'): string {
+  return mode === 'prose' ? 'prose-v1-' + textVersion(text) : textVersion(text);
+}
+
+/** Keep original sentence spans for highlights; omit formulas only from the speech channel. */
+export function splitSourceSentences(sourceText: string, mode: SourceReadingMode = 'strict'): Sentence[] {
+  const sentences = splitSentences(sourceText);
+  if (mode === 'strict') return sentences;
+  const { ranges } = prepareProseReading(sourceText);
+  let offset = 0;
+  return sentences.map(sentence => {
+    const end = offset + sentence.sourceText.length;
+    const prose = omitProseRanges(sourceText, offset, end, ranges);
+    offset = end;
+    return { ...sentence, sentenceId: 'prose-v1-' + sentence.sentenceId, speechText: toSpeechText(prose) };
+  }).filter(sentence => /[\p{L}\p{N}]/u.test(sentence.speechText));
 }

diff --git a/apps/web/src/features/classroom/ClassroomController.ts b/apps/web/src/features/classroom/ClassroomController.ts
@@ -50,6 +50,15 @@ export class ClassroomController {
     if(this.state.mode==='explain'){await this.generate();return;}
     this.state.phase='reading';this.emit();
     this.options.audio()?.load(this.state.units[this.state.unitIndex],this.envelope!,this.mode);
+    await this.playOrSkipSource();
+  }
+  private async playOrSkipSource(){
+    if(!this.options.audio()?.getSnapshot().sentences.length){
+      // A formula-only reading unit is skipped; teaching still sees the original.
+      if(this.state.mode==='read'){this.state.phase='waiting';this.emit();}
+      else await this.generate();
+      return;
+    }
     await this.options.audio()?.play();
   }
   private async generate(){
@@ -101,7 +110,7 @@ export class ClassroomController {
         this.state.phase='reading';this.emit();
         const bookmark=this.options.audio()?.getBookmark();
         if(bookmark?.target.sourceId===this.state.units[this.state.unitIndex].sourceId)await this.options.audio()?.resumeSource(this.envelope!,this.mode);
-        else {this.options.audio()?.load(this.state.units[this.state.unitIndex],this.envelope!,this.mode);await this.options.audio()?.play();}
+        else {this.options.audio()?.load(this.state.units[this.state.unitIndex],this.envelope!,this.mode);await this.playOrSkipSource();}
       }
       return;
     }
